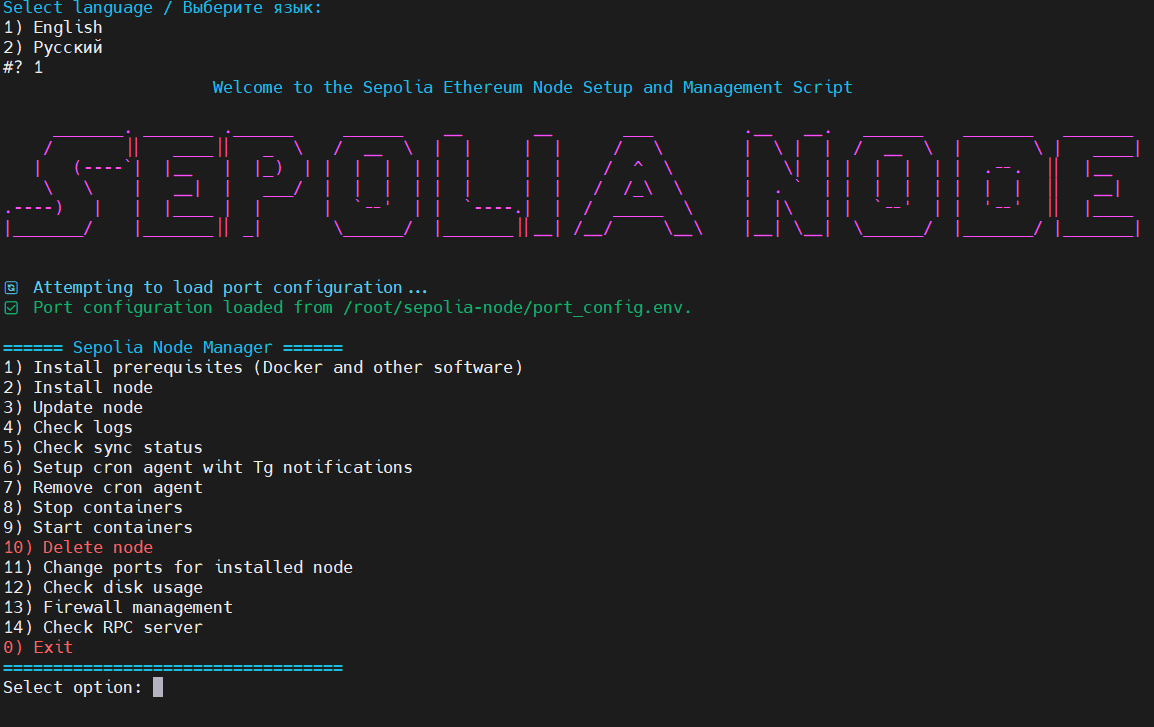
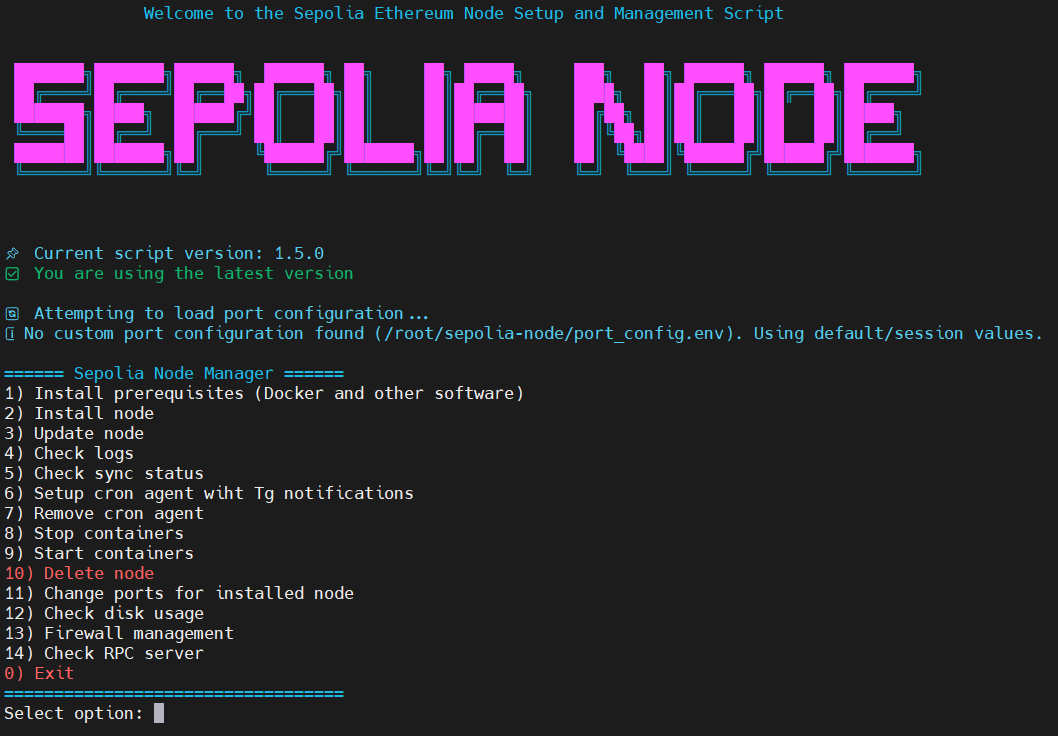
release v.1.5.0

diff --git a/README.md b/README.md
@@ -40,7 +40,16 @@
 | **Процессор (CPU)**| 4–8 ядер                      |
 | **Диск**          | 600 GB SSD (может увеличиться до 1.5 TB) |
 
-## 📌 Последние обновления 09-06-2025
+## 📌 Последние обновления 12-06-2025
+- Добавлена система контроля весрий скрипта Sepolia
+- Обновлен логотип
+
+---
+
+<details>
+<summary>📅 История версий</summary>
+
+### 09-06-2025
 - Добавлена возможность выбора Execution клиента. Geth, Reth, Nethermind.
 - Добавлена возможность назначить порт при установке. По умолчанию для execution 8545, consensus 5052.
 - Добавлена возможность назначать порт для ранее установленной ноды. 
@@ -51,11 +60,6 @@
 - Добавлена обновленная версия скрипта проверки RPC от Creed
 - Доработан скрипт проверки RPC для совместимости с обеими версиями Sepolia Auto Install, также возможно выбрать проверку localhost или внешнего ip.
 - Мелкие улучшения
-
----
-
-<details>
-<summary>📅 История версий</summary>
 
 ### 24-05-2025
 - Добавлен скрипт проверки RPC от Creed 

diff --git a/en/README.md b/en/README.md
@@ -40,7 +40,16 @@ All prerequisites can be installed automatically by selecting option 1 in the me
 | **CPU**            | 4–8 cores                                 |
 | **Disk**           | 600 GB SSD (can grow up to 1.5 TB)        |
 
-## 📌 Latest Updates 09-06-2025
+## 📌 Latest Updates 12-06-2025
+- Added version control system for Sepolia RPC script.
+- Updated logo
+
+---
+
+<details>
+<summary>📅 Version History</summary>
+
+### 09-06-2025
 - Added the ability to select Execution client. Geth, Reth, Nethermind.
 - Added ability to assign a port during installation. Default for execution 8545, consensus 5052.
 - Added ability to assign a port to previously installed node. 
@@ -51,11 +60,6 @@ All prerequisites can be installed automatically by selecting option 1 in the me
 - Added updated version of Creed RPC verification script
 - Improved RPC check script to be compatible with both versions of Sepolia Auto Install, it is also possible to select localhost or external ip check.
 - Minor improvements
-
----
-
-<details>
-<summary>📅 Version History</summary>
 
 ### 24-05-2025
 - Added RPC Check script by Creed 
